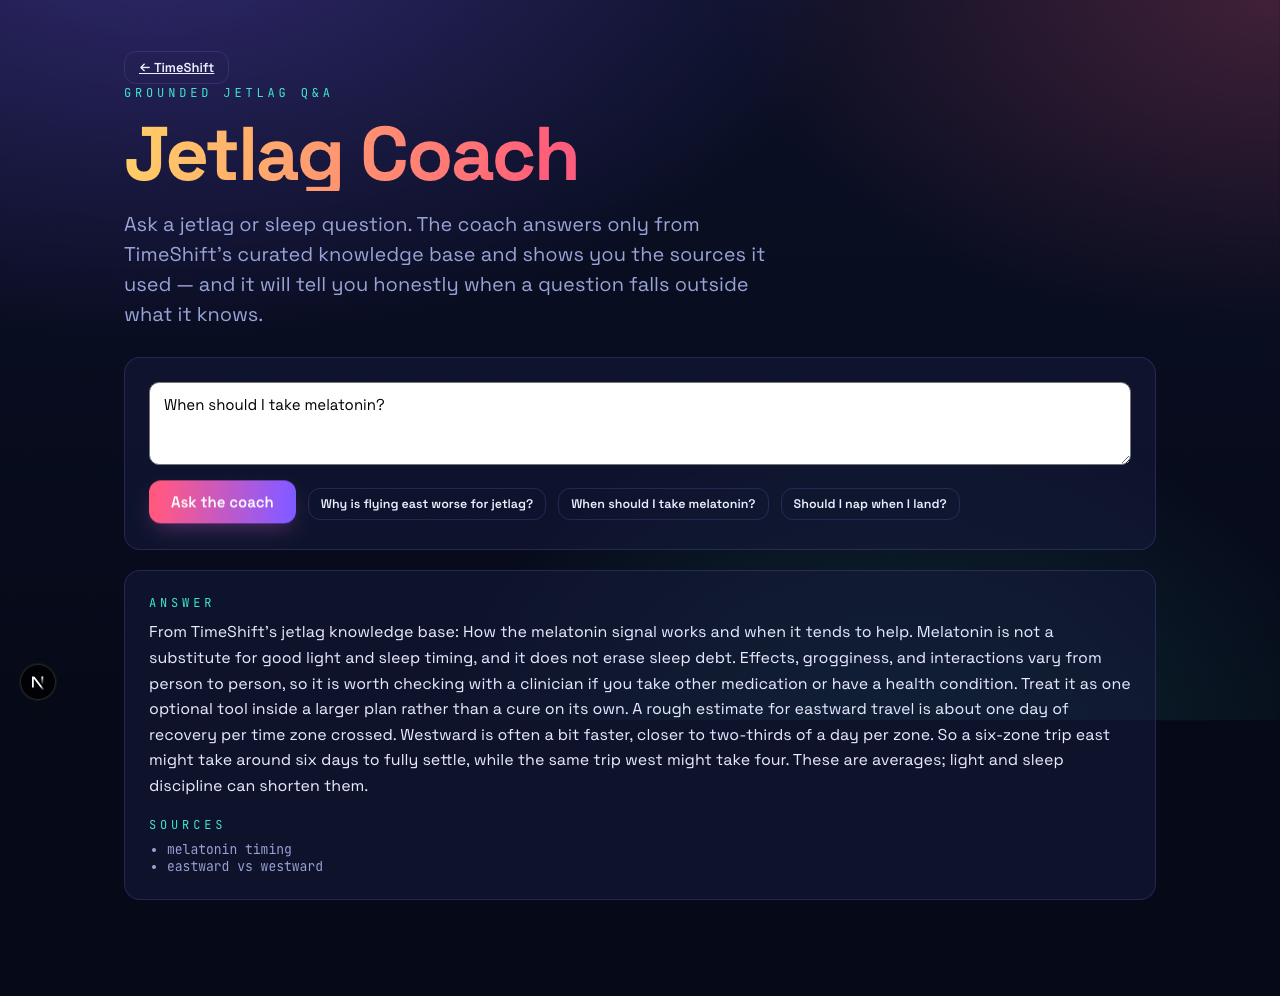
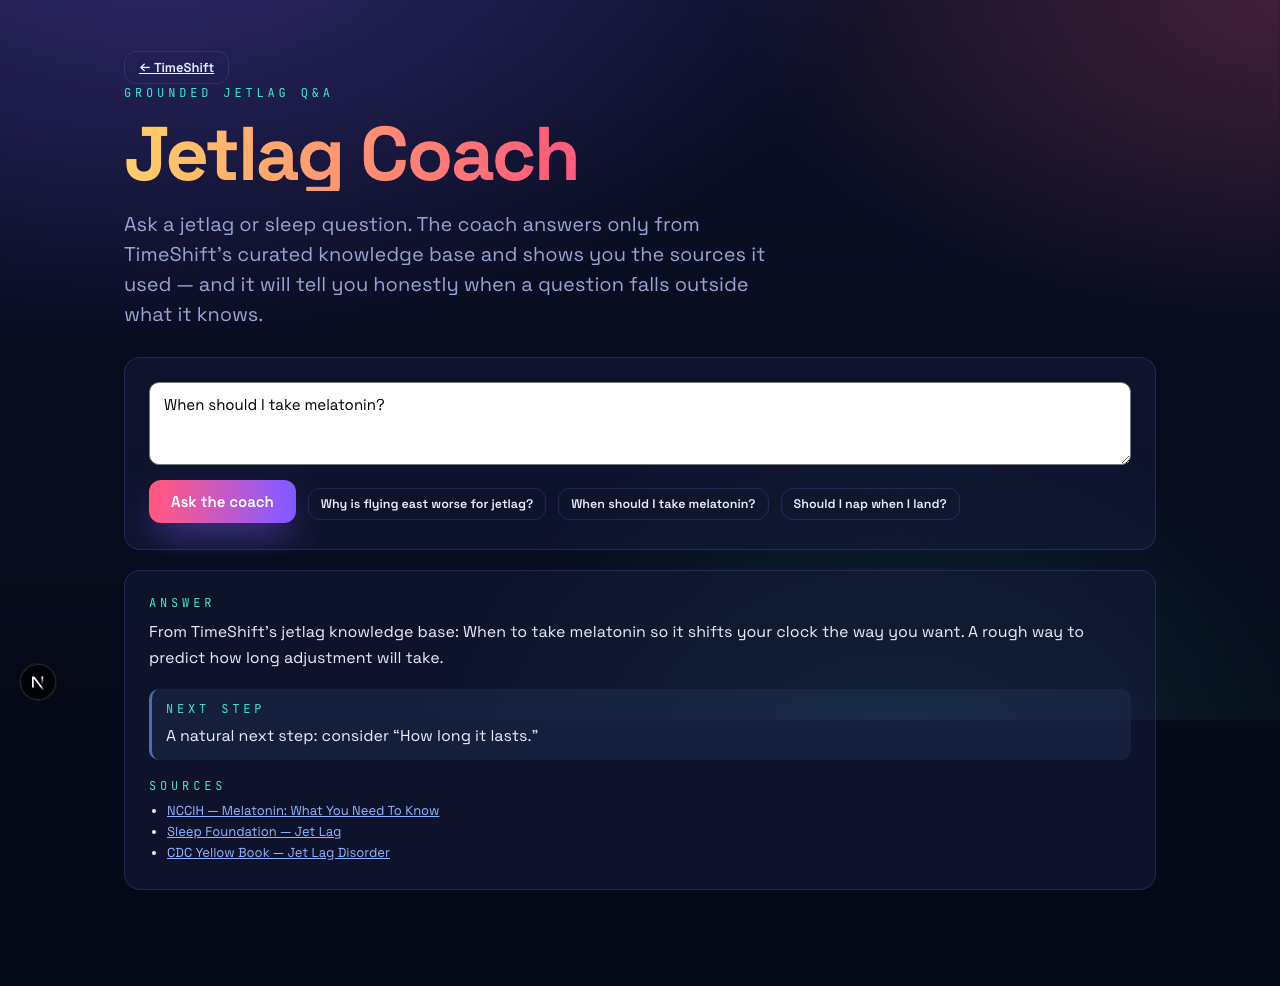
feat: retune thresholds for 55-doc KB; E2E asserts source links + follow-up (US-R)

diff --git a/app/api/coach/route.ts b/app/api/coach/route.ts
@@ -12,13 +12,15 @@ import { createGeminiClient } from '@/lib/ai/client';
 // key is configured (embedQuery returns a vector) and falls back to lexical when
 // not — so this route works keyless, returning extractive grounded answers.
 // Refusal gate thresholds (AC-R2), each tuned to its retrieval path's score scale
-// against the real KB:
-//   - lexical (TF-IDF cosine): on-topic ~0.18–0.28, off-topic ~0–0.14  → 0.16
-//   - semantic (embedding cosine): on-topic ~0.74–0.86, off-topic ~0.51 → 0.62
+// against the 55-doc KB:
+//   - semantic (embedding cosine): on-topic ~0.75–0.82, off-topic ~0.49–0.52 → 0.62
+//   - lexical (TF-IDF cosine): the weaker keyless fallback; off-topic can reach
+//     ~0.2 on a large diverse corpus, so we gate conservatively at 0.25 (when in
+//     doubt, refuse) — the semantic path does the precise separation.
 // Both overridable via env for tuning.
 const THRESHOLDS = {
   semantic: Number(process.env.COACH_THRESHOLD_SEMANTIC ?? 0.62),
-  lexical: Number(process.env.COACH_THRESHOLD_LEXICAL ?? 0.16),
+  lexical: Number(process.env.COACH_THRESHOLD_LEXICAL ?? 0.25),
 };
 
 const bodySchema = z.object({ question: z.string().trim().min(1) });
@@ -78,7 +80,8 @@ function extractiveResponse(prompt: string): { answer: string; followUp: string 
   const answer = blocks.length
     ? `From TimeShift's jetlag knowledge base: ${blocks.slice(0, 2).map((b) => b.text).join(' ')}`
     : '';
-  const next = blocks[2] ?? blocks[1];
-  const followUp = next?.heading ? `A natural next step: read up on “${next.heading}.”` : '';
+  // Point at a later retrieved topic with a meaningful heading (skip intro/empty).
+  const next = blocks.slice(1).find((b) => b.heading && b.heading.toLowerCase() !== 'intro');
+  const followUp = next ? `A natural next step: consider “${next.heading}.”` : '';
   return { answer, followUp };
 }

diff --git a/e2e/coach.spec.ts b/e2e/coach.spec.ts
@@ -17,11 +17,16 @@ test('coach answers a KB question with sources and refuses an off-topic one', as
 
   const result = page.getByTestId('coach-result');
   await expect(result).toHaveAttribute('data-grounded', 'true', { timeout: 30_000 });
-  // Source integrity (AC-R3): the cited doc is the one retrieval actually used.
-  await expect(page.getByTestId('coach-sources')).toContainText('melatonin timing');
   // A grounded answer renders non-empty prose. We assert it has content (not its
   // exact wording — model output is non-deterministic, CLAUDE.md §13).
   await expect(page.getByTestId('coach-answer')).toContainText(/\w/);
+  // Follow-on advice: a next-step suggestion renders.
+  await expect(page.getByTestId('coach-followup')).toBeVisible();
+  // Source integrity (AC-R3): citations are VERIFIABLE external links, not internal
+  // filenames. The melatonin question cites a melatonin source, as a real http link.
+  const sourceLink = page.getByTestId('coach-sources').getByRole('link').first();
+  await expect(sourceLink).toContainText('Melatonin');
+  await expect(sourceLink).toHaveAttribute('href', /^https?:\/\//);
 
   await page.screenshot({ path: 'docs/screenshots/e2e-coach-grounded.png', fullPage: true });
 

diff --git a/README.md b/README.md
@@ -201,16 +201,23 @@ below quotes the 13-hour shift and the exact in-flight sleep window:
 
 > A standalone `/coach` page answers a free-form jetlag question **only** from
 > TimeShift's curated knowledge base: it retrieves the most relevant passages,
-> grounds the answer in them, **shows the sources it used**, and **refuses
-> honestly** when the question falls outside the KB.
+> grounds the answer in them, adds a **next-step follow-up**, **cites verifiable
+> external sources** (CDC, NHS, Sleep Foundation, …), and **refuses honestly**
+> when the question falls outside the KB.
 
-**Retrieval is grounded and the sources are real (AC-R1/R3).** The knowledge base
-is ten hand-authored markdown docs under [`docs/kb/`](docs/kb/), chunked by `##`
-heading. Retrieval is **semantic** — Google embeddings + cosine over precomputed
-chunk vectors (`docs/kb/kb-embeddings.json`) — when a key and those vectors are
-present, and falls back to a **lexical TF-IDF-cosine** search when not, so the
-feature works **keyless**. A refusal gate (`decideAnswerable`) drops any question
-whose best passage doesn't clear the threshold *before* any model call (AC-R2).
+**Retrieval is grounded and the citations are verifiable (AC-R1/R3).** The
+knowledge base is **55 hand-authored markdown docs** under [`docs/kb/`](docs/kb/),
+chunked by `##` heading (~220 passages). Each doc carries YAML frontmatter naming a
+real, authoritative source (an org title + URL), and the coach cites **those
+external links** — never the internal filename, and never anything the model made
+up. Citations are derived from the *retrieved* docs' metadata, so the model cannot
+fabricate a source by construction. Retrieval is **semantic** — Google embeddings +
+cosine over precomputed chunk vectors (`docs/kb/kb-embeddings.json`) — when a key
+and those vectors are present, and falls back to a **lexical TF-IDF-cosine** search
+when not, so the feature works **keyless**. A refusal gate (`decideAnswerable`)
+drops any question whose best passage doesn't clear the threshold *before* any
+model call (AC-R2). Every answer also includes a **follow-up**: the single most
+logical next step, grounded in the same retrieved context.
 
 **Mocked-and-unit-tested (no key, 100% coverage).** `lib/rag/` (chunking, vector
 search, lexical fallback, refusal gate) and the `lib/ai/` coach glue
@@ -229,9 +236,11 @@ answer **extractively** from the retrieved passages; with a key it upgrades to a
 LLM-written answer — the **Sources are identical either way**, since they come
 from retrieval, not the model. The refusal gate is **path-aware**: embedding
 cosine and TF-IDF cosine sit on different scales, so each path has its own
-threshold (`COACH_THRESHOLD_SEMANTIC` ≈ 0.62, `COACH_THRESHOLD_LEXICAL` ≈ 0.16),
-both env-overridable. Model output is non-deterministic, so it is never
-snapshot-asserted; the E2E (below) runs keyless for a deterministic grounded
+threshold (`COACH_THRESHOLD_SEMANTIC` ≈ 0.62, `COACH_THRESHOLD_LEXICAL` ≈ 0.25),
+both env-overridable. On the 55-doc KB the semantic path separates cleanly
+(on-topic ≈0.75–0.82 vs off-topic ≈0.49–0.52); the keyless lexical fallback is
+weaker, so it gates conservatively. Model output is non-deterministic, so it is
+never snapshot-asserted; the E2E (below) runs keyless for a deterministic grounded
 answer + refusal.
 
 ![Grounded coach answer with sources](docs/screenshots/e2e-coach-grounded.png)